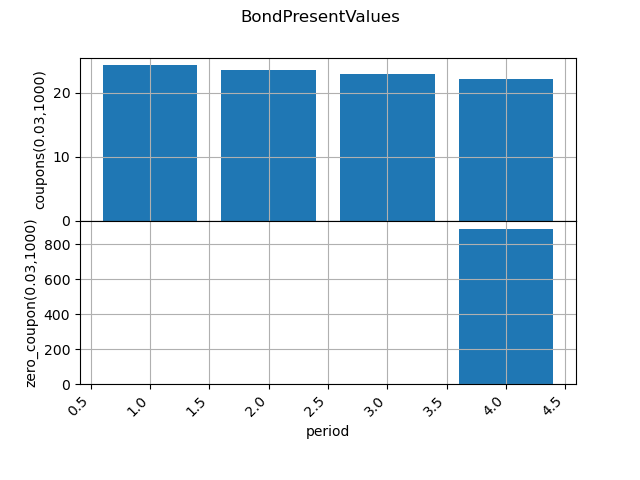
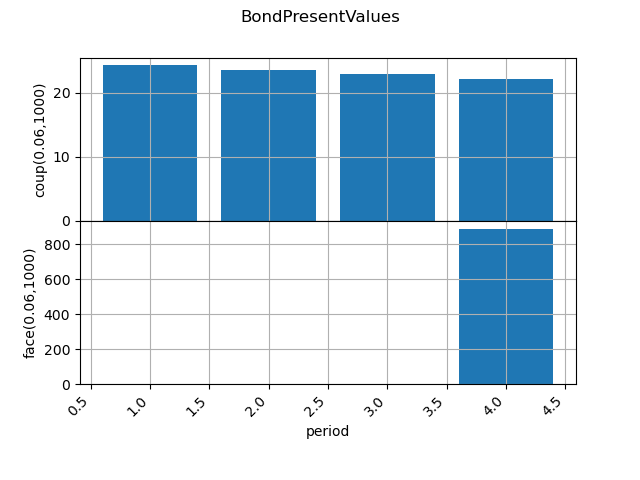
adding modD and convexity examples; cleaning up docstrings

Changed region(s): [[0.0312, 0.1562, 0.0938, 0.4375], [0.0312, 0.4688, 0.0625, 0.8125]]

diff --git a/practice/finance/bond.py b/practice/finance/bond.py
@@ -1,8 +1,9 @@
 import pandas
 import numpy
+from scipy import optimize
 
 
-def evalCoupon(ytm, pppy, y, face, coupon_rate):
+def evalCouponBond(ytm, freq, T, face, coupon):
     """
     Parameters
     ----------
@@ -11,81 +12,63 @@ def evalCoupon(ytm, pppy, y, face, coupon_rate):
       the expected rate of return if every coupon payment was
       invested at a fixed interest rate until the bond matures
 
-    pppy: number
+    freq: number
       number of payment time per year, i.e. semi-annual -> 2
 
-    y: number
+    T: number
       time to maturity, in years
 
     face: number
       face value / amt to be paid in full by maturity
 
-    coupon_rate: number
+    coupon: number
       annual coupon rate
 
     Returns
     -------
-    valulation : number
+    valuation : number
       The valuation of a coupon bond
     """
-    fval = calcFaceValue(ytm, pppy, y, face)
-    coup = calcCoupons(ytm, pppy, y, face, coupon_rate)
+    fval = calcFaceValue(ytm, freq, T, face)
+    coup = calcCoupons(ytm, freq, T, face, coupon)
     cash = fval + coup
+
     return cash.sum()
 
 
-def evalZeroCoupon(ytm, pppy, y, face):
-    """
-    Parameters
-    ----------
-    ytm: number
-      yield to maturity / annual discount rate;
-      the expected rate of return if every coupon payment was
-      invested at a fixed interest rate until the bond matures
-
-    pppy: number
-      number of payment time per year, i.e. semi-annual -> 2
-
-    y: number
-      time to maturity, in years
-
-    face: number
-      face value / amt to be paid in full by maturity
-
-    Returns
-    -------
-    valuation : number
-      The valuation of a zero-coupon bond
-    """
-    cash = calcFaceValue(ytm, pppy, y, face)
+def evalZeroCouponBond(ytm, freq, T, face):
+    cash = calcFaceValue(ytm, freq, T, face)
     return cash.sum()
 
 
-def calcCoupons(ytm, pppy, y, face, coupon_rate):
+def calcCoupons(ytm, freq, T, face, coupon):
     """ present value of coupon payments """
-    pptm = calcPptm(pppy, y)
-    crpp = calcCrpp(coupon_rate, pppy)
+    pptm = calcPptm(freq, T)
+    crpp = calcCrpp(coupon, freq)
     cppp = calcCppp(crpp, face)
     time = getPeriods(pptm)
-    return presentValue(ytm, time, cppp)
+    return presentValue(ytm, freq, time, cppp)
 
 
-def calcFaceValue(ytm, pppy, y, face):
+def calcFaceValue(ytm, freq, T, face):
     """ present value of final zero coupon payment """
-    pptm = calcPptm(pppy, y)
+    pptm = calcPptm(freq, T)
     time = getPeriods(pptm)
     inScope = (time == time.max())
-    return inScope * presentValue(ytm, time, face)
+    return inScope * presentValue(ytm, freq, time, face)
 
 
 def getPeriods(pptm):
-    time = numpy.ones(pptm).cumsum()
+    pptm_int = int(pptm)
+    if pptm_int != pptm:
+        raise TypeError(pptm, pptm_int)
+    time = numpy.ones(pptm_int).cumsum()
     return pandas.Series(time, index=time)
 
 
-def calcCrpp(coupon_rate, pppy):
+def calcCrpp(coupon, freq):
     """ coupon rate per period """
-    return coupon_rate / pppy
+    return coupon / freq
 
 
 def calcCppp(crpp, face):
@@ -93,12 +76,12 @@ def calcCppp(crpp, face):
     return crpp * face
 
 
-def calcPptm(pppy, y):
+def calcPptm(freq, T):
     """ payment time to maturity """
-    return pppy * y
+    return freq * T
 
 
-def presentValue(rate, pptm, value):
+def presentValue(rate, freq, pptm, value):
     """
     Parameters
     ----------
@@ -106,6 +89,9 @@ def presentValue(rate, pptm, value):
       discount rate;
       the expected rate of return if every coupon payment was
       invested at a fixed interest rate until the bond matures
+
+    freq:
+      frequency
 
     pptm:
       payment time to maturity
@@ -117,11 +103,11 @@ def presentValue(rate, pptm, value):
     -------
     present_value
     """
-    tmp = (1 + rate) ** pptm
+    tmp = (1 + rate / freq) ** pptm
     return value / tmp
 
 
-def calcDuration(ytm, pppy, y, face, coupon_rate):
+def calcDuration(ytm, freq, T, face, coupon):
     """
     source: https://www.investopedia.com/terms/m/macaulayduration.asp
 
@@ -153,16 +139,16 @@ def calcDuration(ytm, pppy, y, face, coupon_rate):
       the expected rate of return if every coupon payment was
       invested at a fixed interest rate until the bond matures
 
-    k: number
+    freq: number
       compounding periods per year, i.e. semi-annual -> 2
 
-    y: number
+    T: number
       time to maturity, in years
 
     face: number
       face value / amt to be paid in full by maturity
 
-    coupon_rate: number
+    coupon: number
       annual coupon rate
 
     Returns
@@ -171,19 +157,34 @@ def calcDuration(ytm, pppy, y, face, coupon_rate):
       The duration of a bond, in years
     """
 
-    ytm_pp = ytm / pppy
-
-    pptm = calcPptm(pppy, y)
+    pptm = calcPptm(freq, T)
     time = getPeriods(pptm)
 
-    fval = calcFaceValue(ytm_pp, pppy, y, face)
-    coup = calcCoupons(ytm_pp, pppy, y, face, coupon_rate)
+    fval = calcFaceValue(ytm, freq, T, face)
+    coup = calcCoupons(ytm, freq, T, face, coupon)
     cash = coup + fval
 
     tmp = (time * cash).sum() / cash.sum()
-    return tmp / pppy
+    return tmp / freq
 
 
-def calcModDuration(duration, pppy, ytm):
-    tmp = 1 + (ytm / pppy)
+def calcModDuration(duration, freq, ytm):
+    tmp = 1 + (ytm / freq)
     return duration / tmp
+
+
+def calcYtm(price, face, T, coupon, freq, guess=0.05):
+    """ Calculates the approximate YTM """
+    fun = lambda y: evalCouponBond(y, freq, T, face, coupon) - price
+    return optimize.newton(fun, guess)
+
+
+def calcConvexity(price, face, T, coupon, freq, dy):
+    """ Calculates the approximate convexity """
+    ytm = calcYtm(price, face, T, coupon, freq)
+    upper = evalCouponBond(ytm + dy, freq, T, face, coupon)
+    lower = evalCouponBond(ytm - dy, freq, T, face, coupon)
+
+    c = upper + lower - 2 * price
+    c /= price * dy ** 2
+    return c

diff --git a/docs/source/bond.rst b/docs/source/bond.rst
@@ -26,12 +26,19 @@ leveraged from the following sources:
 Present Valuation
 ------------------
 
-The following functions are used to assist in the
-present valuation of a bond:
+The following function is used to calculate the present value
+of a bond:
+
+    .. autofunction:: practice.finance.bond.evalCouponBond
+
+
+To help demonstrate the concept of present valuation, the following
+helper functions are used in the example below:
 
     .. autofunction:: practice.finance.bond.calcCoupons
 
     .. autofunction:: practice.finance.bond.calcFaceValue
+
 
 Example
 ********
@@ -40,31 +47,40 @@ Example
 
         import pandas
 
-        ytm = 0.03
-        pppy = 2
-        y = 2
-        face = 1000
-        coupon_rate = 0.05
+        ytm = 0.06
+        freq = 2
+        T = 2
+        face = 100
+        coupon = 0.05
 
-        coup = bond.calcCoupons(ytm, pppy, y, face, coupon_rate)
-        fval = bond.calcFaceValue(ytm, pppy, y, face)
+        coup = bond.calcCoupons(ytm, freq, T, face, coupon)
+        fval = bond.calcFaceValue(ytm, freq, T, face)
 
         PresentValues = pandas.DataFrame({
             f'coup({ytm},{face})' : coup,
             f'face({ytm},{face})' : fval, })
 
-        total_coup = bond.evalCoupon(ytm, pppy, y, face, coupon_rate)
-        total_zero = bond.evalZeroCoupon(ytm, pppy, y, face)
+        total_coup = bond.evalCouponBond(ytm, freq, T, face, coupon)
+        total_zero = bond.evalZeroCouponBond(ytm, freq, T, face)
 
         assert total_zero == fval.sum()
         assert total_coup == (fval + coup).sum()
 
+        price = PresentValues.sum().sum()
         print(PresentValues)
-        print(f"\nThe present value of the bond is: {PresentValues.sum().sum()}")
-
+        print(f"\nThe present value of the bond is:${price:.2f}""")
 
     .. image:: ../../images/finance/BondPresentValues.png
        :align: center
+
+To back out the yield, given the price, the following
+function may be invoked:
+
+    .. jupyter-execute::
+
+        approxYtm = bond.calcYtm(price, face, T, coupon, freq)
+        print(f"The approximate ytm is: {approxYtm*100:.2f}%""")
+
 
 
 Duration
@@ -74,57 +90,26 @@ Duration may be thought of as the weighted average number of years
 an investor must maintain a position in a bond until the present
 value of the bond's cash flows equals the amount paid for the bond.
 
-
-Compounding Example
-*******************
-Assuming a $1,000 face value bond that pays a 6% coupon and matures
-in 3 years with an interest rates of 6% per year with semi-annual
-compounding, the duration would be calculated as follows:
+As an example, the duration for a $1,000 face value bond that pays
+a 6% coupon and matures in 3 years with an interest rate of 6% per
+year, compounded semi-annually would be calculated as follows:
 
     .. jupyter-execute::
 
-        ytm = 0.06
-        pppy = 2
-        y = 3
-        face = 100
-        coupon_rate = 0.06
-
-        d = bond.calcDuration(ytm, pppy, y, face, coupon_rate)
-
-        print(f"""
-            The duration is {d:.2f} years,
-            which is less than the time to maturity
-            of {y} years.
-            In other words, it takes {d:.2f} years to
-            recoup the true cost of the bond. """)
+        d = bond.calcDuration(ytm, freq, T, face, coupon)
+        print(f"It takes {d:.2f} years to recoup the cost of the bond.")
 
 
 Modified Duration
 *******************
 
-Assuming a three-year bond with a face value of $100 that
-pays a 10% coupon semi-annually and has a yield to maturity
-of 6%, the duration and modified duration may be calculated
-as follows:
-
     .. jupyter-execute::
 
-        pppy = 2
-        ytm = 0.06
-        y = 3
-        face = 100
-        coupon_rate = 0.10
-
-        d = bond.calcDuration(ytm, pppy, y, face, coupon_rate)
-        mod_d = bond.calcModDuration(d, pppy, ytm)
+        mod_d = bond.calcModDuration(d, freq, ytm)
 
         print(f"""
-            In this case, if, say, interest rates were to rise and ultimately
-            increase the YTM from {ytm*100}% to {ytm*100+1}%, then the bond's
-            value should fall by {mod_d:.2f}%.\n
-            Similarly, if the YTM were to fall from {ytm*100}% to {ytm*100-1}%,
-            then the bond's price should rise by {mod_d:.2f}%.""")
-
+          The modified duration is {mod_d:.2f}, which implies that
+          a 1% change in yield leads to a {mod_d:.2f}% in price.""")
 
 
 Convexity
@@ -138,4 +123,17 @@ response to a 1% rate change, convexity calculates the
 acceleration of this price change in response to
 the corresponding rate change.
 
+When a bond has a higher convexity than another bond, with
+all else being equal, then the former will always have
+a higher price than the latter as interest rates rise or fall.
 
+    .. jupyter-execute::
+
+        dy = 0.01
+
+        c = bond.calcConvexity(price, face, T, coupon, freq, dy)
+
+        print(f"""
+          The convexity is {c:.2f}, which implies that
+          A {dy*100:.2f}% change in yield leads to a modified
+          duration change of {c*dy*100:.2f}.""")
